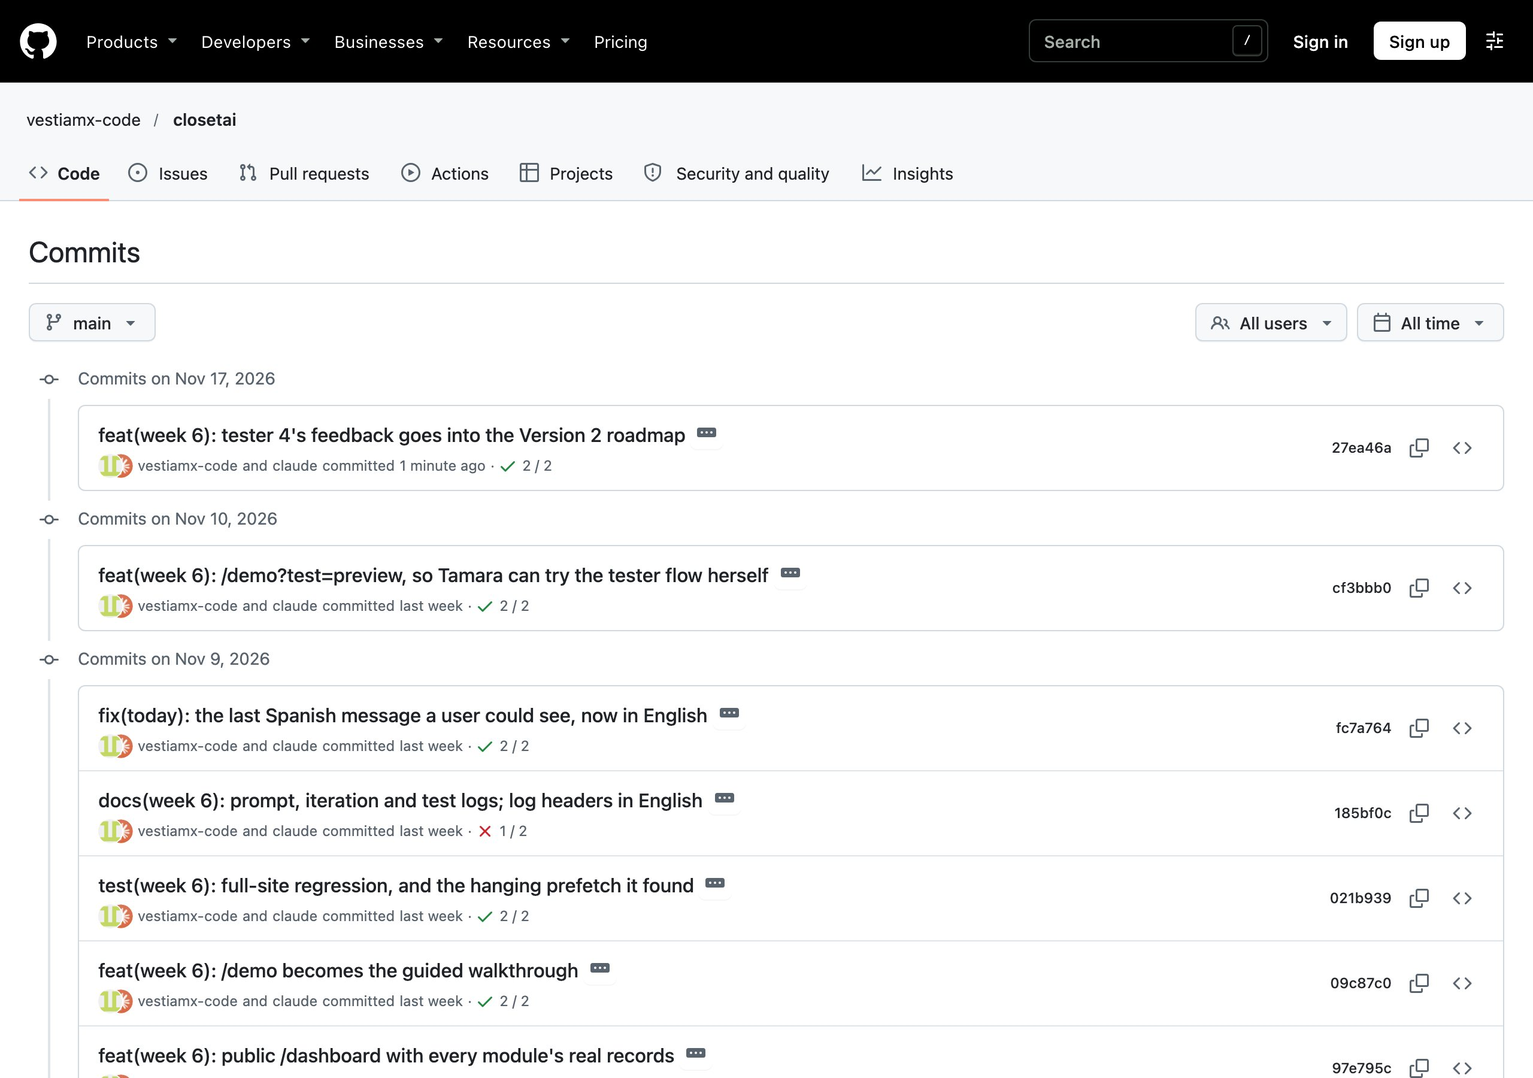
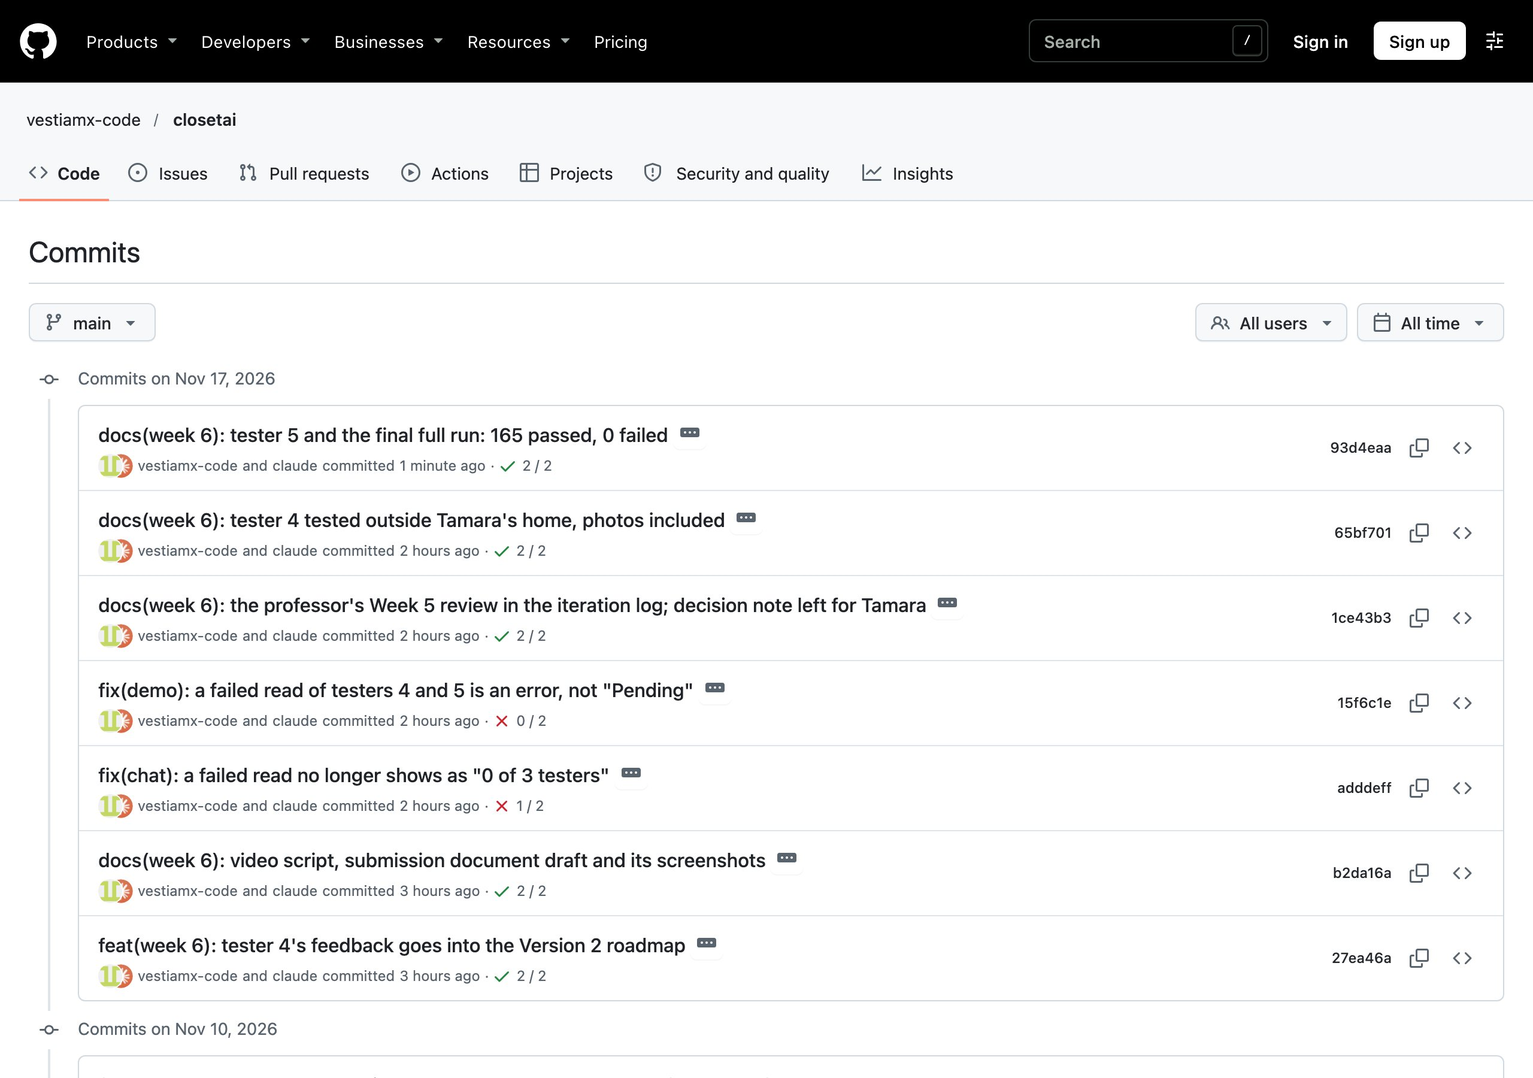
docs(week 6): screenshots and tables with all five testers and the final run

diff --git a/docs/evidencia/entrega/semana-6/packet2.html b/docs/evidencia/entrega/semana-6/packet2.html
@@ -131,7 +131,7 @@
       <tr><td>Product spec and acceptance criteria</td><td>1.0</td><td>10 requirements, each with a testable criterion and its status</td><td>4</td></tr>
       <tr><td>Architecture and tech stack clarity</td><td>1.0</td><td>Data flow, one source of truth for the agents, a stack table with reasons</td><td>5</td></tr>
       <tr><td><b>Working deployed product</b></td><td><b>2.0</b></td><td><code>closetai.lat/demo</code> live, with every module reachable, tested against the real site</td><td>6, 11</td></tr>
-      <tr><td>Coding/build evidence</td><td>1.0</td><td><b>11 commits</b> (min. 5) · <b>7 deployments</b> (min. 2) · <b>7</b> coding-agent prompts (min. 5)</td><td>7–10</td></tr>
+      <tr><td>Coding/build evidence</td><td>1.0</td><td><b>17 commits</b> (min. 5) · <b>12 deployments</b> (min. 2) · <b>7</b> coding-agent prompts (min. 5)</td><td>7–10</td></tr>
       <tr><td>Testing and iteration</td><td>1.0</td><td><b>5 external users</b> in total and a <b>full-site regression</b> against production; bugs fixed and redeployed</td><td>11–12</td></tr>
       <tr><td>Human judgment and explanation</td><td>1.0</td><td>Decisions, rejections and corrections; the limits of this evidence; decision note</td><td>2, 12, 14, 16</td></tr>
       <tr><td>Demo clarity</td><td>0.5</td><td>5-minute walkthrough recorded against the live site, narrated by me</td><td>15</td></tr>
@@ -275,7 +275,7 @@ public pages; never show a tester who didn't happen.</pre>
       <tr><td>3</td><td><code>/docs</code></td><td>Every production prompt (≥ 8) with purpose, version, model and guardrail, full text expandable; Week 0–6 build log</td><td class="ok">● met · 9</td></tr>
       <tr><td>4</td><td><code>/demo</code> walkthrough</td><td>200 without a session; ≥ 6 numbered steps, each linking a live route that answers 200; the video plays</td><td class="ok">● met · 9</td></tr>
       <tr><td>5</td><td>Agent map</td><td>Every production agent with input → model → output, guardrail and human checkpoint; matches <code>/docs</code></td><td class="ok">● met · 10</td></tr>
-      <tr><td>6</td><td>5 external users</td><td>Tester links ask for consent, show the checklist and save a summary; <code>/demo</code> shows the five and never one who didn’t happen</td><td><span class="pendiente">[PENDING: tester 5]</span></td></tr>
+      <tr><td>6</td><td>5 external users</td><td>Tester links ask for consent, show the checklist and save a summary; <code>/demo</code> shows the five and never one who didn’t happen</td><td class="ok">● met · 5</td></tr>
       <tr><td>7</td><td>Practical impact check</td><td>Value with measured evidence, and each risk with its guardrail and test</td><td class="ok">● met · 8</td></tr>
       <tr><td>8</td><td>Version 2 roadmap</td><td>Each item tied to the evidence that motivated it</td><td class="ok">● met · 8</td></tr>
       <tr><td>9</td><td>Full-site regression</td><td>Every public route on production on phone and desktop; private routes redirect; the full suite runs against the live site</td><td class="ok">● met</td></tr>
@@ -355,7 +355,7 @@ Supabase Postgres (RLS on every table; private tables closed to the public key)
 
 <!-- ============ 7. COMMITS ============ -->
 <section class="brk">
-  <h2>7 · GitHub commits — 11 this week (minimum 5)</h2>
+  <h2>7 · GitHub commits — 17 this week (minimum 5)</h2>
   <table>
     <thead><tr><th style="width:18mm">Hash</th><th style="width:22mm">When</th><th>Message</th></tr></thead>
     <tbody>
@@ -370,6 +370,12 @@ Supabase Postgres (RLS on every table; private tables closed to the public key)
       <tr><td class="mono">fc7a764</td><td>Nov 9, 16:28</td><td>fix: the last Spanish message a user could see, now in English</td></tr>
       <tr><td class="mono">cf3bbb0</td><td>Nov 10, 09:07</td><td>feat: /demo?test=preview, so Tamara can try the tester flow herself</td></tr>
       <tr><td class="mono">27ea46a</td><td>Nov 16, 18:27</td><td>feat: tester 4&#x27;s feedback goes into the Version 2 roadmap</td></tr>
+      <tr><td class="mono">b2da16a</td><td>Nov 16, 18:32</td><td>docs: video script, submission document draft and its screenshots</td></tr>
+      <tr><td class="mono">adddeff</td><td>Nov 16, 19:50</td><td>fix: a failed read no longer shows as &quot;0 of 3 testers&quot;</td></tr>
+      <tr><td class="mono">15f6c1e</td><td>Nov 16, 19:50</td><td>fix: a failed read of testers 4 and 5 is an error, not &quot;Pending&quot;</td></tr>
+      <tr><td class="mono">1ce43b3</td><td>Nov 16, 19:51</td><td>docs: the professor&#x27;s Week 5 review in the iteration log; decision note left for Tamara</td></tr>
+      <tr><td class="mono">65bf701</td><td>Nov 16, 20:10</td><td>docs: tester 4 tested outside Tamara&#x27;s home, photos included</td></tr>
+      <tr><td class="mono">93d4eaa</td><td>Nov 16, 22:13</td><td>docs: tester 5 and the final full run: 165 passed, 0 failed</td></tr>
     </tbody>
   </table>
   <figure class="media"><img src="12-commits.jpg" alt="" class="alto"><figcaption>The public commit history on GitHub.</figcaption></figure>
@@ -377,7 +383,7 @@ Supabase Postgres (RLS on every table; private tables closed to the public key)
 
 <!-- ============ 8. DEPLOYS ============ -->
 <section class="brk">
-  <h2>8 · Vercel deployments — 7 this week (minimum 2)</h2>
+  <h2>8 · Vercel deployments — 12 this week (minimum 2)</h2>
   <p class="lead">Production deployments read from <code>vercel ls</code>, each with the commit it built.</p>
   <table>
     <thead><tr><th style="width:22mm">When</th><th style="width:16mm">State</th><th>Commit</th></tr></thead>
@@ -389,6 +395,11 @@ Supabase Postgres (RLS on every table; private tables closed to the public key)
       <tr><td>Nov 9, 16:28</td><td class="ok">● Ready</td><td><span class="mono">fc7a764</span> · fix: the last Spanish message a user could see, now in English</td></tr>
       <tr><td>Nov 10, 09:07</td><td class="ok">● Ready</td><td><span class="mono">cf3bbb0</span> · feat: /demo?test=preview, so Tamara can try the tester flow herself</td></tr>
       <tr><td>Nov 16, 18:27</td><td class="ok">● Ready</td><td><span class="mono">27ea46a</span> · feat: tester 4&#x27;s feedback goes into the Version 2 roadmap</td></tr>
+      <tr><td>Nov 16, 18:32</td><td class="ok">● Ready</td><td><span class="mono">b2da16a</span> · docs: video script, submission document draft and its screenshots</td></tr>
+      <tr><td>Nov 16, 19:50</td><td class="ok">● Ready</td><td><span class="mono">adddeff</span> · fix: a failed read no longer shows as &quot;0 of 3 testers&quot;</td></tr>
+      <tr><td>Nov 16, 19:51</td><td class="ok">● Ready</td><td><span class="mono">1ce43b3</span> · docs: the professor&#x27;s Week 5 review in the iteration log; decision note left for Tamara</td></tr>
+      <tr><td>Nov 16, 20:10</td><td class="ok">● Ready</td><td><span class="mono">65bf701</span> · docs: tester 4 tested outside Tamara&#x27;s home, photos included</td></tr>
+      <tr><td>Nov 16, 22:13</td><td class="ok">● Ready</td><td><span class="mono">93d4eaa</span> · docs: tester 5 and the final full run: 165 passed, 0 failed</td></tr>
     </tbody>
   </table>
 </section>
@@ -408,7 +419,7 @@ Supabase Postgres (RLS on every table; private tables closed to the public key)
       <tr><td><code>api_costs</code> rows that held a raw IP</td><td class="ok">48 → 0; replaced by <code>ip:removed</code></td></tr>
       <tr><td><code>api_costs</code> rows in total</td><td class="ok">415 before, 415 after: no cost lost</td></tr>
       <tr><td>The public key on 14 private tables (regression)</td><td class="ok">no row readable</td></tr>
-      <tr><td>Tester 4’s summary</td><td class="ok">saved Nov 16, not marked as a test, shown on <code>/demo</code></td></tr>
+      <tr><td>Testers 4 and 5’s summaries</td><td class="ok">saved Nov 16, not marked as tests, shown on <code>/demo</code></td></tr>
     </tbody>
   </table>
 </section>
@@ -453,8 +464,8 @@ Supabase Postgres (RLS on every table; private tables closed to the public key)
       <tr><td>1</td><td><code>/chat</code> · Week 5</td><td>5/5</td><td>—</td><td>“Everything good”</td><td>“I thought that pictures were included”</td></tr>
       <tr><td>2</td><td><code>/chat</code> · Week 5</td><td>5/5</td><td>—</td><td>“All good”</td><td>“Everithing was fine”</td></tr>
       <tr><td>3</td><td><code>/chat</code> · Week 5</td><td>5/5</td><td>—</td><td>“I like the concept”</td><td>“All worked!!”</td></tr>
-      <tr><td>4</td><td>Whole site · 9 of 9 steps</td><td>5/5</td><td>Yes</td><td>“I loved the idea of it, it would help a lot to save time”</td><td>“That it was in english”</td></tr>
-      <tr><td>5</td><td colspan="5"><span class="pendiente">[PENDING: tester 5]</span></td></tr>
+      <tr><td>4</td><td>Whole site · 9 of 9 steps · outside my home</td><td>5/5</td><td>Yes</td><td>“I loved the idea of it, it would help a lot to save time”</td><td>“That it was in english”</td></tr>
+      <tr><td>5</td><td>Whole site · 9 of 9 steps</td><td>5/5</td><td>Yes</td><td>“I liked the concept, i like that it shows poctures and the places where i can find something similar”</td><td>“For me, everything was clear”</td></tr>
     </tbody>
   </table>
   <figure class="media"><img src="04-testers.jpg" alt="" class="alto"><figcaption>The testing summary as it appears on <code>/demo</code>.</figcaption></figure>
@@ -475,7 +486,7 @@ Supabase Postgres (RLS on every table; private tables closed to the public key)
   <ul>
     <li><b>Run 1, Nov 9:</b> 59 passed, <b>6 failed</b>, 3 skipped — three pages never finished loading (§12).</li>
     <li><b>Run 2, Nov 9, after the fix was deployed:</b> <b>65 passed, 0 failed</b>, 3 skipped by design (tests that run on one profile only).</li>
-    <li><b>Final full run, every week’s tests:</b> <span class="pendiente">[PENDING: final run]</span></li>
+    <li><b>Final full run, every week’s tests, Nov 16:</b> of 176 tests, <b>165 passed, 0 failed</b>, 11 skipped by design. It includes the new case for the professor’s “0 of 3” finding.</li>
   </ul>
   <p><b>Unit tests:</b> 16 new cases this week — the agent map against the real prompts, the dashboard maths with empty
     tables and test rows, and the tester form’s contract (no consent, nothing saved). Whole suite: 132 passed, 6 skipped.</p>
@@ -493,7 +504,8 @@ Supabase Postgres (RLS on every table; private tables closed to the public key)
       <tr><td>Checking the app for the full-site test: <code>/today</code> still answered in Spanish with fewer than four garments</td><td>Translated</td></tr>
       <tr><td>The logs linked from <code>/docs</code> had Spanish titles</td><td>Titles in English, with a note that Weeks 0–3 were written in Spanish before the course moved to English</td></tr>
       <tr><td>Wanting to see what a tester sees, without using a tester’s link</td><td><code>/demo?test=preview</code>: the same flow, saved as a test and never shown</td></tr>
-      <tr><td><span class="pendiente">[PENDING: tester 5]</span></td><td></td></tr>
+      <tr><td><b>The professor’s Week 5 review: the live <code>/chat</code> read “0 of 3 external testers”</b> while three had finished. A failed database read was being shown as zero</td><td>Both <code>/chat</code> and <code>/demo</code> retry the read and, if it fails, say so instead of stating a number. A regression case checks the live page shows 3 of 3. The intro’s outdated “three questions” and “no photos” were fixed too</td></tr>
+      <tr><td><b>The same review:</b> someone outside my home should test the photos added after tester 1</td><td>Tester 4 tested outside my home, on her own phone, and did the outfit step with its photos (9 of 9 steps). Her only complaint was the language, not the photos. Tester 5 named the photos and the store links as what she liked most</td></tr>
     </tbody>
   </table>
 </section>
@@ -504,7 +516,7 @@ Supabase Postgres (RLS on every table; private tables closed to the public key)
   <h3>Value and viability</h3>
   <ul>
     <li><b>Who it helps:</b> a woman aged 24–30 in Mexico City who owns enough clothes but loses time deciding what to wear, and buys what she doesn’t need. ClosetAI answers from her own closet first.</li>
-    <li><b>What the evidence says:</b> every rated chat answer was helpful (6 of 6); four external testers scored it 5/5, and tester 4 said “it would help a lot to save time”.</li>
+    <li><b>What the evidence says:</b> every rated chat answer was helpful (6 of 6); all five external testers scored it 5/5; testers 4 and 5 said they would use it, and tester 4 said “it would help a lot to save time”.</li>
     <li><b>The weakest number:</b> in the app, most outfits people decided on were rejected (2 accepted of 6). That is item 2 of Version 2.</li>
     <li><b>What it costs:</b> $0.69 of AI since August, for 415 calls. A chat answer costs $0.0002; the only expensive call is the virtual try-on ($0.075), which is why it is paid with credits.</li>
     <li><b>What it can’t claim yet:</b> that it saves anyone time or money. Nobody has used it long enough to measure that.</li>
@@ -521,8 +533,8 @@ Supabase Postgres (RLS on every table; private tables closed to the public key)
   <h2>14 · What this evidence does not prove</h2>
   <ul>
     <li><b>The numbers are small.</b> Three accounts, 12 public chat conversations, 11 visitors in the homepage experiment. They are signals, not proof, and the dashboard says so.</li>
-    <li><b>Four of five testers gave 5/5, and the first three tried it at my home.</b> People I know score generously. Tester 4 was the first to name something that didn’t work for her.</li>
-    <li><b>Testers 1–3 tried only <code>/chat</code>, before its photos existed.</b> Only testers 4 and 5 saw the whole site.</li>
+    <li><b>The first three testers tried it at my home,</b> and people I know score generously. Tester 4 tested outside my home and was the first to name something that didn’t work for her.</li>
+    <li><b>Testers 1–3 tried only <code>/chat</code>, before its photos existed.</b> The photos have been tested by one person outside my home (tester 4), and tester 5 named them as what she liked most. Two people, not proof that they solve tester 1’s confusion for everyone.</li>
     <li><b>The language problem is real and stays.</b> The product is for Mexico and is in English because the course requires it.</li>
     <li><b>The app itself can’t be shown to graders without an account.</b> The walkthrough asks for a free one, and the video uses footage of my own account.</li>
     <li><b>Nothing deletes old records automatically.</b> The raw IPs were found by chance, while building something else.</li>
@@ -545,12 +557,7 @@ Supabase Postgres (RLS on every table; private tables closed to the public key)
 <section>
   <h2>16 · Human decision note</h2>
   <div class="note">
-    <p>This week I joined six weeks of work into one venture, and the hardest part was deciding what to show and what to admit.</p>
-    <p>I decided the dashboard would be public but show only totals, with no names or messages. My numbers are small, and I chose to show them as they are instead of hiding them. While building it, I found that old visitor IP addresses were still saved in the database from Week 1. I approved deleting them, because a fashion app has no reason to keep them.</p>
-    <p>I also decided that a tester who hasn’t answered appears as “pending”. I refused to invent testers, even with the deadline close.</p>
-    <p>Testing corrected me twice. The automated test found three pages that never finished loading, and they were fixed. My fourth tester said the only confusing thing was that the app is in English. I can’t change that now, because the course requires English, so a Spanish version is the first item of Version 2.</p>
-    <p>The tradeoff: most of my testers know me, and my numbers can’t prove the app saves time yet. They show it works, and where to improve next.</p>
-    <p class="wc"><span class="pendiente">[PENDING: Tamara’s approval]</span></p>
+    <p class="pendiente">[PENDING: Tamara writes this note herself — 150–250 words, in English: her decisions, rejections, corrections and tradeoffs]</p>
   </div>
 </section>
 
@@ -561,7 +568,7 @@ Supabase Postgres (RLS on every table; private tables closed to the public key)
     <thead><tr><th style="width:36mm">Gate</th><th style="width:50mm">Required</th><th>Evidence</th></tr></thead>
     <tbody>
       <tr><td>1 — Plan</td><td>Build Discipline Packet complete before coding</td><td>§2 · <code>4c009f6</code>, before the first code commit</td></tr>
-      <tr><td>2 — Build</td><td>Code, commits and deploys completed</td><td>§7 · 11 commits · §8 · 7 production deployments</td></tr>
+      <tr><td>2 — Build</td><td>Code, commits and deploys completed</td><td>§7 · 17 commits · §8 · 12 production deployments</td></tr>
       <tr><td>3 — Test</td><td>Tests documented, bug fixed, redeploy completed</td><td>§11, 12 · the hanging pages fixed and redeployed; the regression passed after</td></tr>
       <tr><td>4 — Explain</td><td>Demo and human decision note submitted</td><td>§15 · video · §16 · decision note</td></tr>
     </tbody>

diff --git a/docs/evidencia/entrega/semana-6/cuerpo.html b/docs/evidencia/entrega/semana-6/cuerpo.html
@@ -35,7 +35,7 @@
       <tr><td>Product spec and acceptance criteria</td><td>1.0</td><td>10 requirements, each with a testable criterion and its status</td><td>4</td></tr>
       <tr><td>Architecture and tech stack clarity</td><td>1.0</td><td>Data flow, one source of truth for the agents, a stack table with reasons</td><td>5</td></tr>
       <tr><td><b>Working deployed product</b></td><td><b>2.0</b></td><td><code>closetai.lat/demo</code> live, with every module reachable, tested against the real site</td><td>6, 11</td></tr>
-      <tr><td>Coding/build evidence</td><td>1.0</td><td><b>11 commits</b> (min. 5) · <b>7 deployments</b> (min. 2) · <b>7</b> coding-agent prompts (min. 5)</td><td>7–10</td></tr>
+      <tr><td>Coding/build evidence</td><td>1.0</td><td><b>17 commits</b> (min. 5) · <b>12 deployments</b> (min. 2) · <b>7</b> coding-agent prompts (min. 5)</td><td>7–10</td></tr>
       <tr><td>Testing and iteration</td><td>1.0</td><td><b>5 external users</b> in total and a <b>full-site regression</b> against production; bugs fixed and redeployed</td><td>11–12</td></tr>
       <tr><td>Human judgment and explanation</td><td>1.0</td><td>Decisions, rejections and corrections; the limits of this evidence; decision note</td><td>2, 12, 14, 16</td></tr>
       <tr><td>Demo clarity</td><td>0.5</td><td>5-minute walkthrough recorded against the live site, narrated by me</td><td>15</td></tr>
@@ -259,7 +259,7 @@ Supabase Postgres (RLS on every table; private tables closed to the public key)
 
 <!-- ============ 7. COMMITS ============ -->
 <section class="brk">
-  <h2>7 · GitHub commits — 11 this week (minimum 5)</h2>
+  <h2>7 · GitHub commits — 17 this week (minimum 5)</h2>
   <table>
     <thead><tr><th style="width:18mm">Hash</th><th style="width:22mm">When</th><th>Message</th></tr></thead>
     <tbody>
@@ -274,6 +274,12 @@ Supabase Postgres (RLS on every table; private tables closed to the public key)
       <tr><td class="mono">fc7a764</td><td>Nov 9, 16:28</td><td>fix: the last Spanish message a user could see, now in English</td></tr>
       <tr><td class="mono">cf3bbb0</td><td>Nov 10, 09:07</td><td>feat: /demo?test=preview, so Tamara can try the tester flow herself</td></tr>
       <tr><td class="mono">27ea46a</td><td>Nov 16, 18:27</td><td>feat: tester 4&#x27;s feedback goes into the Version 2 roadmap</td></tr>
+      <tr><td class="mono">b2da16a</td><td>Nov 16, 18:32</td><td>docs: video script, submission document draft and its screenshots</td></tr>
+      <tr><td class="mono">adddeff</td><td>Nov 16, 19:50</td><td>fix: a failed read no longer shows as &quot;0 of 3 testers&quot;</td></tr>
+      <tr><td class="mono">15f6c1e</td><td>Nov 16, 19:50</td><td>fix: a failed read of testers 4 and 5 is an error, not &quot;Pending&quot;</td></tr>
+      <tr><td class="mono">1ce43b3</td><td>Nov 16, 19:51</td><td>docs: the professor&#x27;s Week 5 review in the iteration log; decision note left for Tamara</td></tr>
+      <tr><td class="mono">65bf701</td><td>Nov 16, 20:10</td><td>docs: tester 4 tested outside Tamara&#x27;s home, photos included</td></tr>
+      <tr><td class="mono">93d4eaa</td><td>Nov 16, 22:13</td><td>docs: tester 5 and the final full run: 165 passed, 0 failed</td></tr>
     </tbody>
   </table>
   <figure class="media"><img src="12-commits.jpg" alt="" class="alto"><figcaption>The public commit history on GitHub.</figcaption></figure>
@@ -281,7 +287,7 @@ Supabase Postgres (RLS on every table; private tables closed to the public key)
 
 <!-- ============ 8. DEPLOYS ============ -->
 <section class="brk">
-  <h2>8 · Vercel deployments — 7 this week (minimum 2)</h2>
+  <h2>8 · Vercel deployments — 12 this week (minimum 2)</h2>
   <p class="lead">Production deployments read from <code>vercel ls</code>, each with the commit it built.</p>
   <table>
     <thead><tr><th style="width:22mm">When</th><th style="width:16mm">State</th><th>Commit</th></tr></thead>
@@ -293,6 +299,11 @@ Supabase Postgres (RLS on every table; private tables closed to the public key)
       <tr><td>Nov 9, 16:28</td><td class="ok">● Ready</td><td><span class="mono">fc7a764</span> · fix: the last Spanish message a user could see, now in English</td></tr>
       <tr><td>Nov 10, 09:07</td><td class="ok">● Ready</td><td><span class="mono">cf3bbb0</span> · feat: /demo?test=preview, so Tamara can try the tester flow herself</td></tr>
       <tr><td>Nov 16, 18:27</td><td class="ok">● Ready</td><td><span class="mono">27ea46a</span> · feat: tester 4&#x27;s feedback goes into the Version 2 roadmap</td></tr>
+      <tr><td>Nov 16, 18:32</td><td class="ok">● Ready</td><td><span class="mono">b2da16a</span> · docs: video script, submission document draft and its screenshots</td></tr>
+      <tr><td>Nov 16, 19:50</td><td class="ok">● Ready</td><td><span class="mono">adddeff</span> · fix: a failed read no longer shows as &quot;0 of 3 testers&quot;</td></tr>
+      <tr><td>Nov 16, 19:51</td><td class="ok">● Ready</td><td><span class="mono">1ce43b3</span> · docs: the professor&#x27;s Week 5 review in the iteration log; decision note left for Tamara</td></tr>
+      <tr><td>Nov 16, 20:10</td><td class="ok">● Ready</td><td><span class="mono">65bf701</span> · docs: tester 4 tested outside Tamara&#x27;s home, photos included</td></tr>
+      <tr><td>Nov 16, 22:13</td><td class="ok">● Ready</td><td><span class="mono">93d4eaa</span> · docs: tester 5 and the final full run: 165 passed, 0 failed</td></tr>
     </tbody>
   </table>
 </section>
@@ -461,7 +472,7 @@ Supabase Postgres (RLS on every table; private tables closed to the public key)
     <thead><tr><th style="width:36mm">Gate</th><th style="width:50mm">Required</th><th>Evidence</th></tr></thead>
     <tbody>
       <tr><td>1 — Plan</td><td>Build Discipline Packet complete before coding</td><td>§2 · <code>4c009f6</code>, before the first code commit</td></tr>
-      <tr><td>2 — Build</td><td>Code, commits and deploys completed</td><td>§7 · 11 commits · §8 · 7 production deployments</td></tr>
+      <tr><td>2 — Build</td><td>Code, commits and deploys completed</td><td>§7 · 17 commits · §8 · 12 production deployments</td></tr>
       <tr><td>3 — Test</td><td>Tests documented, bug fixed, redeploy completed</td><td>§11, 12 · the hanging pages fixed and redeployed; the regression passed after</td></tr>
       <tr><td>4 — Explain</td><td>Demo and human decision note submitted</td><td>§15 · video · §16 · decision note</td></tr>
     </tbody>
